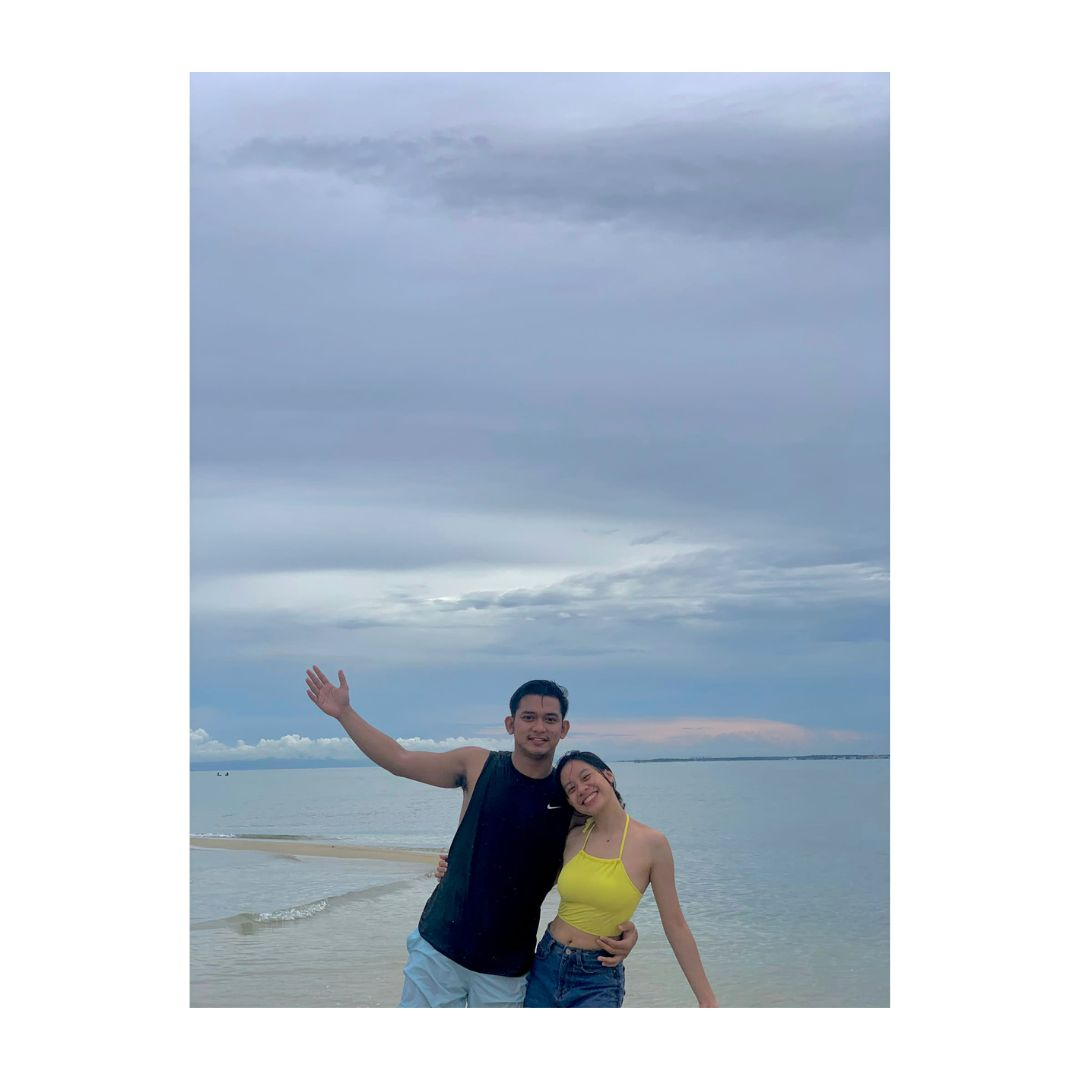
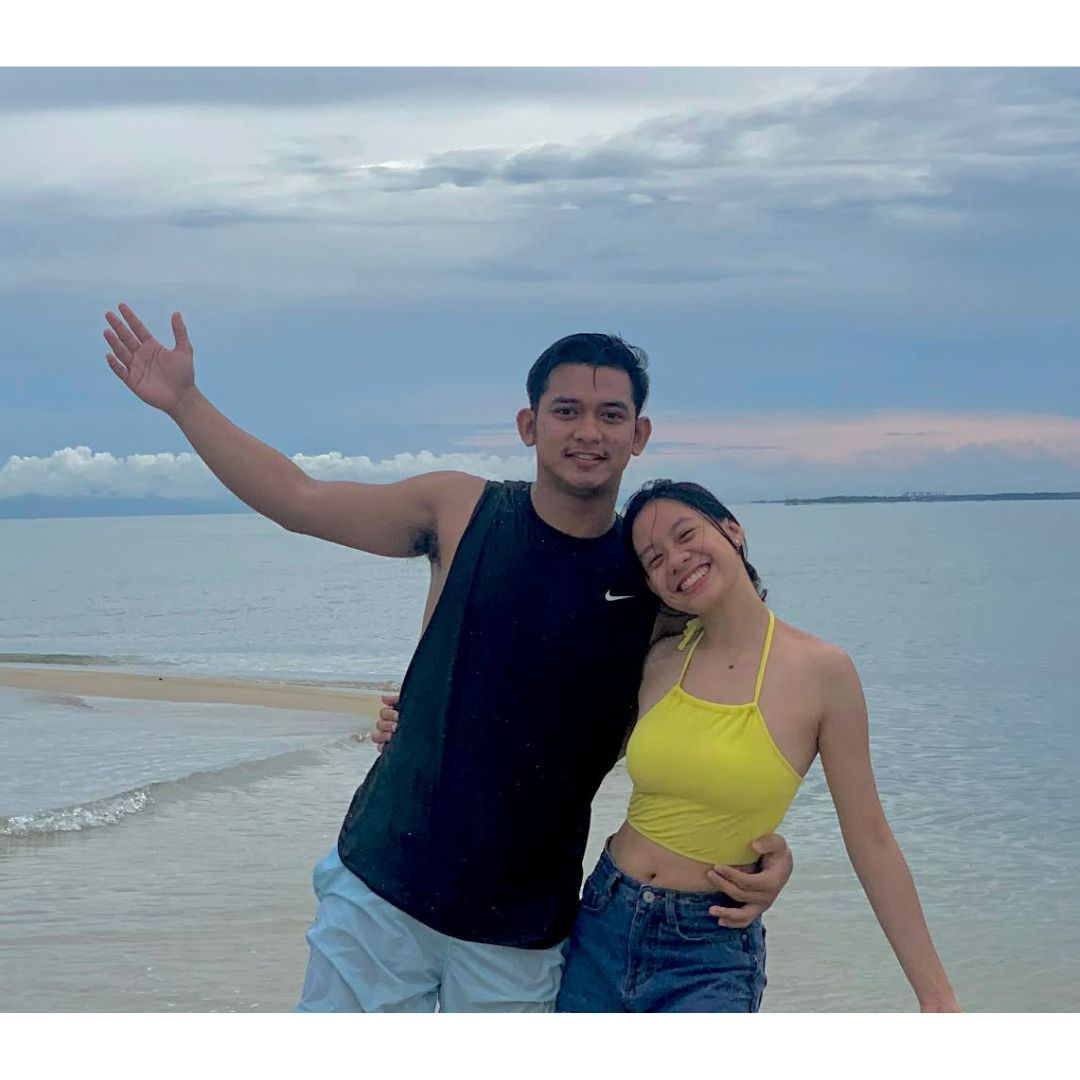
fixed the polaroids and some requests

diff --git a/index.html b/index.html
@@ -355,15 +355,14 @@ h3.l{color:var(--cream)}
 .cd-num{font-family:'Playfair Display',serif;font-size:clamp(36px,8vw,52px);color:var(--orange);line-height:1;display:block}
 .cd-lbl{font-family:'Jost',sans-serif;font-size:9px;letter-spacing:.35em;text-transform:uppercase;color:var(--muted);margin-top:6px;display:block}
 
-/* ── PHOTO SLOTS ── */
+/* ── PHOTO SLOTS (Updated: No Arch, No Frame) ── */
 .photo-slot img {
-  width: 100%; /* Forces the image to stay inside its container */
-  aspect-ratio: 4 / 5; /* Gives it a consistent, portrait-style arch shape */
-  object-fit: cover; /* Ensures the photo fills the arch without squishing */
-  border-radius: 200px 200px 8px 8px !important; 
-  border: 6px solid #FFF; 
+  width: 100%;
+  /* Removed aspect-ratio so the natural dimensions of the photo are respected */
+  border-radius: 8px !important; /* Standard soft corners instead of the large arch */
+  border: none; /* Removed the 6px solid #FFF frame */
   box-shadow: 0 12px 30px rgba(42, 31, 26, 0.08); 
-  display: block; /* Removes any weird invisible spacing below the image */
+  display: block; 
 }
 
 /* ── STORY SECTION PHOTO ── */
@@ -509,7 +508,7 @@ h3.l{color:var(--cream)}
   gap: 16px; 
   justify-content: center; 
   flex-wrap: wrap; 
-  margin: 20px 0 36px; 
+  margin: 8px 0 20px; /* Tighter margins */
 }
 .swatch { text-align: center; }
 .sw-circle { 
@@ -617,6 +616,34 @@ h3.l{color:var(--cream)}
 #s-details, #s-details .con { padding-top: 0 !important; }
 
 
+/* ── ENTOURAGE CENTERING FIX (ALL SCREENS) ── */
+.ent-cols {
+  display: grid;
+  grid-template-columns: 1fr 1fr;
+  gap: 20px;
+  text-align: center !important;
+  max-width: 500px;
+  margin: 0 auto;
+}
+
+.ent-cols > div {
+  display: flex;
+  flex-direction: column;
+  align-items: center;
+}
+
+.ent-cols .ent-label {
+  justify-content: center !important;
+  width: 100%;
+}
+
+.ent-cols .ent-name-pair,
+.ent-cols .sponsor-name,
+.ent-cols .sponsor-item {
+  text-align: center !important;
+  width: 100%;
+}
+
 /* ── RESPONSIVE (MOBILE) ── */
 @media(max-width:600px){
   /* Reduces overall padding to tighten up scrolling everywhere */
@@ -628,17 +655,6 @@ h3.l{color:var(--cream)}
   .trail-item { grid-template-columns: 1fr 22px 1fr; }
   .polaroid { max-width: 140px; }
   .trail-title { font-size: 14px; }
-  
-  /* ── ENTOURAGE 2-COLUMN CENTERING ── */
-  .ent-cols {
-    grid-template-columns: 1fr 1fr !important; 
-    gap: 8px !important; 
-    text-align: center !important; /* Centers the names */
-  }
-  
-  .ent-cols .ent-label {
-    justify-content: center !important; /* Centers the icons with the headers */
-  }
   
   /* Sizes down the text slightly so it fits perfectly side-by-side */
   .ent-name-pair, .sponsor-name { font-size: 11px !important; }
@@ -861,22 +877,22 @@ h3.l{color:var(--cream)}
     <div class="div div-ctr fi"><div class="div-line"></div><div class="div-gem"></div><div class="div-line"></div></div>
 
     <div class="love-block fi d1" style="margin-top:32px">
-      <p class="body" style="margin-bottom:18px">
+      <p class="body" style="margin-bottom:14px; font-size:14px; text-align:justify;">
         Approximately eight years ago, in the lobby of FAITH, Leomar first noticed Eli because of her loud voice and laughter—though he didn’t even know her name yet. Every time he saw her around campus, he found himself drawn to her cheerful and lively personality.
       </p>
-      <p class="body" style="margin-bottom:18px">
-        Fast forward to the time of the pandemic. One chill night, while drinking with his friends, Leomar randomly saw Eli’s Facebook profile in his suggested friends. With a bit of courage from the alcohol, he immediately sent her a friend request. In Eli’s POV, she was usually intentional when accepting friends online. But at that time, something felt different—Leomar’s request caught her attention. She stalked his profile, checked his background, and found out they came from the same college and accepted him. Despite considering this as unusual behavior of her, she tried to accept him because she had a thought of “she might be missing out on being too protective of herself.”
+      <p class="body" style="margin-bottom:14px; font-size:14px; text-align:justify;">
+        Fast forward to the time of the pandemic. One chill night, while drinking with his friends, Leomar randomly saw Eli’s Facebook profile in his suggested friends. With a bit of courage from the alcohol, he immediately sent her a friend request. In Eli’s POV, she was usually intentional when accepting friends online. But at that time, something felt different—Leomar’s request caught her attention. She stalked his profile, checked his background, and found out they came from the same college and accepted him. Despite considering this as unusual behavior of her, it was because she had a thought of “she might be missing out for being too protective of herself”.
       </p>
-      <p class="body" style="margin-bottom:18px">
-        As in... right after, Leomar immediately sent a “Hi.” Eli was a bit hesitant during their “getting to know” stage, but Leomar reassured her that their conversations didn’t have to lead to anything romantic—no pressure, just go with the flow. At that time, neither of them found themselves at their best, as they were dealing with broken souls and personal battles. Still, through each other, they slowly built a genuine connection and companionship.
+      <p class="body" style="margin-bottom:14px; font-size:14px; text-align:justify;">
+        Right after, Leomar immediately sent a “Hi.” Eli was a bit hesitant during their “getting to know” stage, but Leomar reassured her that their conversations didn’t have to lead to anything romantic —no pressure, just go with the flow. At that time, neither of them found themselves at their best, as they were dealing with broken souls and personal battles. Still, through each other, they slowly built a genuine connection and companionship.
       </p>
-      <p class="body" style="margin-bottom:18px">
-        They went through the getting-to-know-you stage through shared simple, random adventures together. But it wasn’t as smooth, as they encountered multiple goodbyes for choosing self-reconnection.
+      <p class="body" style="margin-bottom:14px; font-size:14px; text-align:justify;">
+        They went through the getting-to-know-you stage through shared simple, random adventures together. This stage wasn’t as smooth, as they encountered multiple goodbyes for choosing self-reconnection.
       </p>
-      <p class="body" style="margin-bottom:18px">
-        Despite all the goodbyes and rejections, Leomar never stopped hoping they would find their way back to each other. After taking time and self-reflection, they eventually both took the risk and chose to stay—to root for one another. No proposal happened, they simply realized they had found a home in each other.
+      <p class="body" style="margin-bottom:14px; font-size:14px; text-align:justify;">
+        Despite all the goodbyes and rejections, they never stopped hoping they would find their way back to each other. After taking time and self-reflection, they eventually both took the risk and chose to stay—to root for one another. No proposal happened, they simply realized they had found a home in each other.
       </p>
-      <p class="body">
+      <p class="body" style="font-size:14px; text-align:justify;">
         Five years later, they decided to tie the knot.
       </p>
     </div>
@@ -1145,7 +1161,7 @@ h3.l{color:var(--cream)}
         
         <div class="ent-cols">
           <div>
-            <div class="ent-label" style="font-size:10px; font-weight: 600; color: #C8714A; margin-bottom:14px; border-bottom:none; display: flex; align-items: center; gap: 6px;">
+            <div class="ent-label" style="font-size:10px; font-weight: 600; color: #C8714A; margin-bottom:14px; border-bottom:none; display: flex; align-items: center; justify-content: center; gap: 6px;">
               <svg width="14" height="14" viewBox="0 0 24 24" fill="none" stroke="currentColor" stroke-width="1.5" stroke-linecap="round" stroke-linejoin="round"><path d="M6 3h12l4 6-10 13L2 9z"></path></svg>
               Ninong
             </div>
@@ -1167,7 +1183,7 @@ h3.l{color:var(--cream)}
             <div class="sponsor-item" style="border-bottom:none"><div class="sponsor-name">Atty. Raegan L. Capuno</div></div>
           </div>
           <div>
-            <div class="ent-label" style="font-size:10px; font-weight: 600; color: #C8714A; margin-bottom:14px; border-bottom:none; display: flex; align-items: center; gap: 6px;">
+            <div class="ent-label" style="font-size:10px; font-weight: 600; color: #C8714A; margin-bottom:14px; border-bottom:none; display: flex; align-items: center; justify-content: center; gap: 6px;">
               <svg width="14" height="14" viewBox="0 0 24 24" fill="none" stroke="currentColor" stroke-width="1.5" stroke-linecap="round" stroke-linejoin="round"><path d="M6 3h12l4 6-10 13L2 9z"></path></svg>
               Ninang
             </div>
@@ -1200,27 +1216,27 @@ h3.l{color:var(--cream)}
         </div>
         <p class="italic-note" style="font-size:14px;margin-bottom:32px;color:rgba(42,31,26,0.7);">the persons closest to our hearts, who will assist us with our needs</p>
         
-        <div class="ent-cols" style="margin-bottom:40px">
-          <div style="text-align:center">
-            <div class="ent-label" style="font-size:10px; font-weight: 600; color: #C8714A; margin-bottom:12px; border-bottom:none; display: flex; align-items: center; justify-content: center; gap: 6px;">
-              <svg width="14" height="14" viewBox="0 0 24 24" fill="none" stroke="currentColor" stroke-width="1.5" stroke-linecap="round" stroke-linejoin="round"><polygon points="12 2 15.09 8.26 22 9.27 17 14.14 18.18 21.02 12 17.77 5.82 21.02 7 14.14 2 9.27 8.91 8.26 12 2"></polygon></svg>
-              Best Man
-            </div>
-            <div style="font-family:'Playfair Display',serif;font-style:italic;font-size:20px;color:var(--ink)">Mark Eriel M. Montero</div>
-          </div>
-          <div style="text-align:center">
-            <div class="ent-label" style="font-size:10px; font-weight: 600; color: #C8714A; margin-bottom:12px; border-bottom:none; display: flex; align-items: center; justify-content: center; gap: 6px;">
-              <svg width="14" height="14" viewBox="0 0 24 24" fill="none" stroke="currentColor" stroke-width="1.5" stroke-linecap="round" stroke-linejoin="round"><polygon points="12 2 15.09 8.26 22 9.27 17 14.14 18.18 21.02 12 17.77 5.82 21.02 7 14.14 2 9.27 8.91 8.26 12 2"></polygon></svg>
-              Maid of Honor
-            </div>
-            <div style="font-family:'Playfair Display',serif;font-style:italic;font-size:20px;color:var(--ink)">Mariel M. Castillo</div>
-          </div>
-        </div>
+       <div class="ent-cols" style="margin-bottom:40px">
+  <div style="text-align:center">
+    <div class="ent-label" style="font-size:10px; font-weight: 600; color: #C8714A; margin-bottom:12px; border-bottom:none; display: flex; align-items: center; justify-content: center; gap: 6px;">
+      <svg width="14" height="14" viewBox="0 0 24 24" fill="none" stroke="currentColor" stroke-width="1.5" stroke-linecap="round" stroke-linejoin="round"><polygon points="12 2 15.09 8.26 22 9.27 17 14.14 18.18 21.02 12 17.77 5.82 21.02 7 14.14 2 9.27 8.91 8.26 12 2"></polygon></svg>
+      Best Man
+    </div>
+    <div style="font-family:'Playfair Display',serif;font-style:italic;font-size:17px;color:var(--ink)">Mark Eriel M. Montero</div>
+  </div>
+  <div style="text-align:center">
+    <div class="ent-label" style="font-size:10px; font-weight: 600; color: #C8714A; margin-bottom:12px; border-bottom:none; display: flex; align-items: center; justify-content: center; gap: 6px;">
+      <svg width="14" height="14" viewBox="0 0 24 24" fill="none" stroke="currentColor" stroke-width="1.5" stroke-linecap="round" stroke-linejoin="round"><polygon points="12 2 15.09 8.26 22 9.27 17 14.14 18.18 21.02 12 17.77 5.82 21.02 7 14.14 2 9.27 8.91 8.26 12 2"></polygon></svg>
+      Maid of Honor
+    </div>
+    <div style="font-family:'Playfair Display',serif;font-style:italic;font-size:17px;color:var(--ink)">Mariel M. Castillo</div>
+  </div>
+</div>
 
         <p class="italic-note" style="font-size:14px;margin-bottom:28px;border-top:1px solid rgba(42,31,26,0.1);padding-top:28px;color:rgba(42,31,26,0.7);">to guide us on our way to the altar</p>
         <div class="ent-cols">
           <div>
-            <div class="ent-label" style="font-size:10px; font-weight: 600; color: #C8714A; margin-bottom:16px; border-bottom:none; display: flex; align-items: center; gap: 6px;">
+            <div class="ent-label" style="font-size:10px; font-weight: 600; color: #C8714A; margin-bottom:16px; border-bottom:none; display: flex; align-items: center; justify-content: center; gap: 6px;">
               <svg width="14" height="14" viewBox="0 0 24 24" fill="none" stroke="currentColor" stroke-width="1.5" stroke-linecap="round" stroke-linejoin="round"><polygon points="12 2 22 8.5 22 15.5 12 22 2 15.5 2 8.5 12 2"></polygon></svg>
               Groomsmen
             </div>
@@ -1232,7 +1248,7 @@ h3.l{color:var(--cream)}
             <div class="ent-name-pair" style="border-bottom-color:rgba(42,31,26,0.1);">Mark Joseph Q. Canupin</div>
           </div>
           <div>
-            <div class="ent-label" style="font-size:10px; font-weight: 600; color: #C8714A; margin-bottom:16px; border-bottom:none; display: flex; align-items: center; gap: 6px;">
+            <div class="ent-label" style="font-size:10px; font-weight: 600; color: #C8714A; margin-bottom:16px; border-bottom:none; display: flex; align-items: center; justify-content: center; gap: 6px;">
               <svg width="14" height="14" viewBox="0 0 24 24" fill="none" stroke="currentColor" stroke-width="1.5" stroke-linecap="round" stroke-linejoin="round"><polygon points="12 2 22 8.5 22 15.5 12 22 2 15.5 2 8.5 12 2"></polygon></svg>
               Bridesmaids
             </div>
@@ -1358,54 +1374,54 @@ h3.l{color:var(--cream)}
     <div class="delicate-frame fi" style="border-color: rgba(42, 31, 26, 0.15); border-top: none; border-top-left-radius: 0; border-top-right-radius: 0; padding-top: 20px;">
 
       <span class="eyebrow" style="color: #2A1F1A; font-weight: 600; font-size: 10px;">The Details</span>
-      <h2 style="margin-bottom:56px">Everything You Need to Know</h2>
+<h2 style="margin-bottom:24px">Everything You Need to Know</h2>
 
-      <div style="margin-bottom:56px;">
-        <div class="ent-label" style="font-size: 15px; font-weight: 600; color: #2A1F1A; letter-spacing: 0.35em; border-bottom: none; display: flex; flex-direction: column; align-items: center; gap: 14px; padding-bottom: 10px;">
-          <svg width="28" height="28" viewBox="0 0 24 24" fill="none" stroke="#C8714A" stroke-width="1.2" stroke-linecap="round" stroke-linejoin="round">
-            <path d="M12 3l2 5h5l-4 4 2 6-5-4-5 4 2-6-4-4h5z"></path>
-          </svg>
-          <span>Dress Code</span>
-        </div>
+<div style="margin-bottom:32px;">
+  <div class="ent-label" style="font-size: 15px; font-weight: 600; color: #2A1F1A; letter-spacing: 0.35em; border-bottom: none; display: flex; flex-direction: column; align-items: center; gap: 10px; padding-bottom: 0px; margin-bottom: 6px;">
+    <svg width="28" height="28" viewBox="0 0 24 24" fill="none" stroke="#C8714A" stroke-width="1.2" stroke-linecap="round" stroke-linejoin="round">
+      <path d="M12 3l2 5h5l-4 4 2 6-5-4-5 4 2-6-4-4h5z"></path>
+    </svg>
+    <span>Dress Code</span>
+  </div>
 
-        <div style="margin: 20px auto 24px; max-width: 90%; display: flex; justify-content: center;">
-          <img src="dresscode.png" alt="Dress Code Inspiration" style="width: 100%; max-width: 320px; height: auto; display: block;">
-        </div>
+  <div style="margin: 4px auto 8px; max-width: 90%; display: flex; justify-content: center;">
+    <img src="dresscode.png" alt="Dress Code Inspiration" style="width: 100%; max-width: 320px; height: auto; display: block;">
+  </div>
 
-        <div class="swatches" style="margin-bottom: 32px;">
-          <div class="swatch">
-            <div class="sw-circle" style="background: #e0623c;"></div>
-            <div class="sw-name">Terracotta</div>
-          </div>
-          <div class="swatch">
-            <div class="sw-circle" style="background: #ffde59;"></div>
-            <div class="sw-name">Sunlight</div>
-          </div>
-          <div class="swatch">
-            <div class="sw-circle" style="background: #ff690b;"></div>
-            <div class="sw-name">Tangerine</div>
-          </div>
-          <div class="swatch">
-            <div class="sw-circle" style="background: #fc5e53;"></div>
-            <div class="sw-name">Coral</div>
-          </div>
-          <div class="swatch">
-            <div class="sw-circle" style="background: #ef9525;"></div>
-            <div class="sw-name">Marigold</div>
-          </div>
-        </div>
+  <div class="swatches" style="margin-top: 4px; margin-bottom: 12px;">
+    <div class="swatch">
+      <div class="sw-circle" style="background: #e0623c;"></div>
+      <div class="sw-name">Terracotta</div>
+    </div>
+    <div class="swatch">
+      <div class="sw-circle" style="background: #ffde59;"></div>
+      <div class="sw-name">Sunlight</div>
+    </div>
+    <div class="swatch">
+      <div class="sw-circle" style="background: #ff690b;"></div>
+      <div class="sw-name">Tangerine</div>
+    </div>
+    <div class="swatch">
+      <div class="sw-circle" style="background: #fc5e53;"></div>
+      <div class="sw-name">Coral</div>
+    </div>
+    <div class="swatch">
+      <div class="sw-circle" style="background: #ef9525;"></div>
+      <div class="sw-name">Marigold</div>
+    </div>
+  </div>
 
-        <p class="body" style="font-size:15px;line-height:1.9;margin-bottom:24px">
-          <strong style="font-family:'Cinzel',serif;font-size:10px;letter-spacing:.2em;font-weight:600;color:var(--orange)">ENTOURAGE &amp; SPONSORS</strong><br>
-          <strong style="color:var(--ink2);">Gentlemen:</strong> Barong Tagalog with black slacks.<br>
-          <strong style="color:var(--ink2);">Ladies:</strong> Solid-colored long dresses in sunset shades.
-        </p>
-        
-        <p class="body" style="font-size:15px;line-height:1.9;margin-bottom:20px">
-          <strong style="font-family:'Cinzel',serif;font-size:10px;letter-spacing:.2em;font-weight:600;color:var(--orange)">GENERAL GUESTS</strong><br>
-          Wear anything you’re comfortable in. If you’d like to match our theme, you may choose any of the sunset shades shown above.
-        </p>
-      </div>
+  <p class="body" style="font-size:15px;line-height:1.7;margin-bottom:12px">
+    <strong style="font-family:'Cinzel',serif;font-size:10px;letter-spacing:.2em;font-weight:600;color:var(--orange)">ENTOURAGE &amp; SPONSORS</strong><br>
+    <strong style="color:var(--ink2);">Gentlemen:</strong> Barong Tagalog with black slacks.<br>
+    <strong style="color:var(--ink2);">Ladies:</strong> Solid-colored long dresses in sunset shades.
+  </p>
+  
+  <p class="body" style="font-size:15px;line-height:1.7;margin-bottom:0">
+    <strong style="font-family:'Cinzel',serif;font-size:10px;letter-spacing:.2em;font-weight:600;color:var(--orange)">GENERAL GUESTS</strong><br>
+    Wear anything you’re comfortable in. If you’d like to match our theme, you may choose any of the sunset shades shown above.
+  </p>
+</div>
 
       <div style="margin-bottom:56px;">
         <div class="ent-label" style="font-size: 15px; font-weight: 600; color: #2A1F1A; letter-spacing: 0.35em; border-bottom: none; display: flex; flex-direction: column; align-items: center; gap: 14px; padding-bottom: 10px;">
@@ -1428,21 +1444,30 @@ h3.l{color:var(--cream)}
           <span style="line-height: 1.4;">Getting There &amp;<br>Sharing Memories</span>
         </div>
         
-        <div style="display:grid;grid-template-columns:1fr 1fr;gap:24px;margin-top:32px;">
-          <div>
-            <div class="qr-box">
-              <img src="church-qr.png" style="width:100%;height:100%;object-fit:contain" alt="Church QR"> 
-            </div>
-            <div class="cap" style="margin-top:10px;font-size:9px">St. Augustine Parish</div>
-          </div>
-          <div>
-            <div class="qr-box">
-               <img src="pat-qr.png" style="width:100%;height:100%;object-fit:contain" alt="Reception QR"> 
-            </div>
-            <div class="cap" style="margin-top:10px;font-size:9px">Patricio's Café</div>
-          </div>
-        </div>
-      </div>
+        <div style="display: flex; flex-wrap: wrap; justify-content: center; align-items: flex-start; gap: 24px; margin-top: 32px; width: 100%; text-align: center;">
+  
+  <div style="text-align: center;">
+    <div class="qr-box" style="margin: 0 auto;">
+      <img src="church-qr.png" style="width:100%;height:100%;object-fit:contain" alt="Church QR"> 
+    </div>
+    <div class="cap" style="margin-top:10px;font-size:9px">St. Augustine Parish</div>
+  </div>
+
+  <div style="text-align: center;">
+    <div class="qr-box" style="margin: 0 auto;">
+       <img src="pat-qr.png" style="width:100%;height:100%;object-fit:contain" alt="Reception QR"> 
+    </div>
+    <div class="cap" style="margin-top:10px;font-size:9px">Patricio's Café</div>
+  </div>
+
+  <div style="text-align: center;">
+    <div class="qr-box" style="margin: 0 auto;">
+       <img src="snap-qr.png" style="width:100%;height:100%;object-fit:contain" alt="Snap & Share QR"> 
+    </div>
+    <div class="cap" style="margin-top:10px;font-size:9px">Snap &amp; Share</div>
+  </div>
+
+</div>
 
       <div class="floral-accent bot" style="background: transparent;">
         <div style="background: #FDF9F4; border-radius: 20px; padding: 0 12px; display: flex; align-items: center;">
@@ -1562,16 +1587,16 @@ h3.l{color:var(--cream)}
           </div>
         </div>
 
-        <div class="evt-item">
-          <div class="evt-time" style="color:var(--orange);">Anytime</div>
-          <div>
-            <div class="evt-name" style="display:flex; align-items:center; gap:8px; color:var(--ink);">
-              <svg width="18" height="18" viewBox="0 0 24 24" fill="none" stroke="#C8714A" stroke-width="1.5" stroke-linecap="round" stroke-linejoin="round"><rect x="3" y="3" width="18" height="18" rx="2" ry="2"></rect><circle cx="8.5" cy="8.5" r="1.5"></circle><polyline points="21 15 16 10 5 21"></polyline></svg>
-              Snap &amp; Share
-            </div>
-            <div class="evt-note">Capture the moment and tag us in your photos!</div>
-          </div>
-        </div>
+       <div class="evt-item">
+  <div class="evt-time" style="color:var(--orange);">Anytime</div>
+  <div>
+    <div class="evt-name" style="display:flex; align-items:center; gap:8px; color:var(--ink);">
+      <svg width="18" height="18" viewBox="0 0 24 24" fill="none" stroke="#C8714A" stroke-width="1.5" stroke-linecap="round" stroke-linejoin="round"><rect x="3" y="3" width="18" height="18" rx="2" ry="2"></rect><circle cx="8.5" cy="8.5" r="1.5"></circle><polyline points="21 15 16 10 5 21"></polyline></svg>
+      Snap &amp; Share
+    </div>
+    <div class="evt-note">Capture the moment and tag us in your photos!</div>
+  </div>
+</div>
 
       </div>
 
@@ -1597,19 +1622,13 @@ h3.l{color:var(--cream)}
   
   <div class="con" style="text-shadow: 0 2px 15px rgba(255,255,255,1), 0 0 30px rgba(255,255,255,0.9);">
 
-    <div class="closing-names fi" style="color: var(--ink); margin-bottom: 24px;">
-      Leomar<br>
-      <span style="font-size:.55em;color:var(--orange);font-style:normal; text-shadow: 0 2px 15px rgba(255,255,255,1);">&amp;</span><br>
-      Elizabeth
-    </div>
+    <span class="fi d1" style="font-family:'Cinzel',serif;font-size:11.5px;letter-spacing:.45em;color:var(--ink2);font-weight:600;display:block;margin-bottom:32px">JUNE 27 · 2026 · TANAUAN CITY</span>
 
-    <span class="fi d1" style="font-family:'Cinzel',serif;font-size:11.5px;letter-spacing:.45em;color:var(--ink2);font-weight:600;display:block;margin-bottom:40px">JUNE 27 · 2026 · TANAUAN CITY</span>
-
-    <div class="fi d2" style="font-family: 'Playfair Display', serif; font-style: italic; font-size: 19px; line-height: 1.85; color: var(--ink); font-weight: 500; max-width: 480px; margin: 0 auto 40px;">
+    <div class="fi d2" style="font-family: 'Playfair Display', serif; font-style: italic; font-size: 15px; line-height: 1.85; color: var(--ink); font-weight: 500; max-width: 480px; margin: 0 auto 40px;">
       "Throughout our journey in our relationship, we’ve felt love and support not just from each other, but also from the people around us. Everyone has made us feel seen, valued, and included. So for our wedding, we want to keep that same vibe—something simple, inclusive, with less rules, and open to everyone. Your presence is what matters most to us.<br><br>
       See you on our big day!<br><br>
       With sml,<br>
-      <span style="color: var(--orange); font-size: 24px; font-weight: 600; display: inline-block; margin-top: 4px; text-shadow: 0 2px 15px rgba(255,255,255,1);">Leomar and Eli</span>"
+      <span style="color: var(--ink); font-size: 20px; font-weight: 600; display: inline-block; margin-top: 4px; text-shadow: 0 2px 15px rgba(255,255,255,1);">Leomar and Eli</span>"
     </div>
 
   </div>
